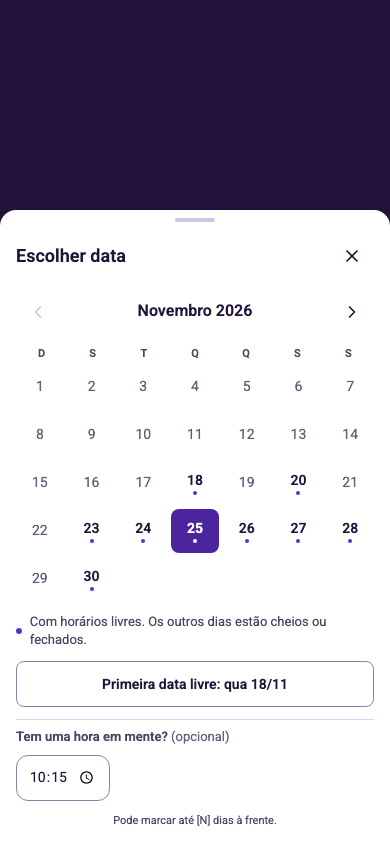
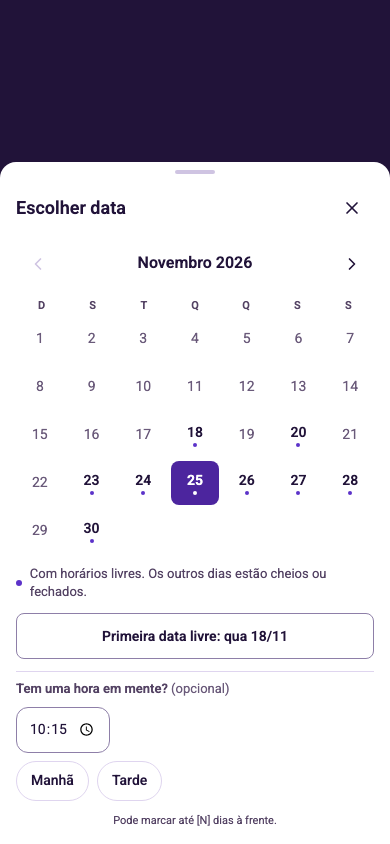
feat(clientweb): Manhã/Tarde no calendário e linha da equipe sem vaga (DEC-227)
Fecha o que ficou de fora do PR: a folha «Outra data» ganha os chips
Manhã/Tarde (opcionais, com a hora em mente) e o estado sem vaga lembra
«Fale com a equipe no WhatsApp». A DEC-227 regista porque a hora do chat
(e a data e o período) não chegam ao link: desde a DEC-220 o chat emite
«Abrir agenda» sempre como home. O chat também não adopta a gravidade:
offerNearestSlots só serve o caminho legado de alternativas.

diff --git a/src/client/clientweb/CalendarSheet.tsx b/src/client/clientweb/CalendarSheet.tsx
@@ -8,8 +8,8 @@ type Props = {
   selected: string | null
   /** Primeira hora de cada dia do horizonte (`daysOnly`). */
   loadDays: (from: string, to: string) => Promise<SlotsResult>
-  /** `requestedTime` = «Tem uma hora em mente?» (HH:MM), opcional. */
-  onPick: (date: string, requestedTime: string | null) => void
+  /** «Tem uma hora em mente?» (HH:MM) e/ou Manhã/Tarde: ambos opcionais (DEC-227). */
+  onPick: (date: string, wish: { requestedTime: string | null; dayPart: 'manha' | 'tarde' | null }) => void
   onClose: () => void
   onSessionLost: () => void
 }
@@ -64,6 +64,7 @@ export function CalendarSheet({ catalog, selected, loadDays, onPick, onClose, on
   const [retry, setRetry] = useState(0)
   const closeRef = useRef<HTMLButtonElement>(null)
   const [time, setTime] = useState('')
+  const [part, setPart] = useState<'manha' | 'tarde' | null>(null)
   const requestedTime = /^([01]\d|2[0-3]):[0-5]\d$/.test(time) ? time : null
 
   useEffect(() => {
@@ -149,7 +150,7 @@ export function CalendarSheet({ catalog, selected, loadDays, onPick, onClose, on
                           className={`cw-cal-day${date === selected ? ' is-on' : ''}`}
                           aria-label={`${l.weekday} ${l.dayMonth}, com horários`}
                           aria-pressed={date === selected}
-                          onClick={() => onPick(date, requestedTime)}
+                          onClick={() => onPick(date, { requestedTime, dayPart: part })}
                         >
                           {num}
                           <span aria-hidden="true" className="cw-cal-dot" />
@@ -178,6 +179,19 @@ export function CalendarSheet({ catalog, selected, loadDays, onPick, onClose, on
             value={time}
             onChange={(e) => setTime(e.target.value)}
           />
+          <div role="group" aria-label="Ou um período" className="cw-pref-chips">
+            {([['manha', 'Manhã'], ['tarde', 'Tarde']] as const).map(([id, label]) => (
+              <button
+                key={id}
+                type="button"
+                aria-pressed={part === id}
+                className={`cw-pref-chip${part === id ? ' is-on' : ''}`}
+                onClick={() => setPart(part === id ? null : id)}
+              >
+                {label}
+              </button>
+            ))}
+          </div>
         </div>
         {days === 'loading' && (
           <p role="status" className="cw-muted">
@@ -205,7 +219,7 @@ export function CalendarSheet({ catalog, selected, loadDays, onPick, onClose, on
           </p>
         )}
         {firstLabel && first && (
-          <button type="button" className="cw-btn cw-btn-secondary" onClick={() => onPick(first, requestedTime)}>
+          <button type="button" className="cw-btn cw-btn-secondary" onClick={() => onPick(first, { requestedTime, dayPart: part })}>
             Primeira data livre: {firstLabel.weekday} {firstLabel.dayMonth}
           </button>
         )}

diff --git a/src/client/clientweb/BookFlow.test.tsx b/src/client/clientweb/BookFlow.test.tsx
@@ -352,6 +352,7 @@ describe('agendar pela página (C-02 a C-06)', () => {
     expect(await screen.findByText('Sem horários nesta altura.')).toBeTruthy()
     expect(document.querySelectorAll('.cw-time')).toHaveLength(0)
     expect(screen.getByText('Nada fica marcado antes de Confirmar.')).toBeTruthy()
+    expect(screen.getByText('Nenhum serve? Fale com a equipe no WhatsApp.')).toBeTruthy()
     await user.click(screen.getByRole('button', { name: 'Próximo livre: sexta 20, 09:30' }))
     expect(await screen.findByRole('heading', { name: 'Confirme o horário' })).toBeTruthy()
   })
@@ -549,13 +550,28 @@ describe('agendar pela página (C-02 a C-06)', () => {
     await user.click(free)
     expect(screen.queryByRole('dialog')).toBeNull()
     expect(await screen.findByRole('button', { name: '10:00' })).toBeTruthy()
-    expect(picks(calls).pop()!.body).toMatchObject({ when: { date: '2026-11-19' }, requestedTime: '10:15' })
+    expect(picks(calls).pop()!.body).toMatchObject({ when: { date: '2026-11-19', dayPart: null }, requestedTime: '10:15' })
     expect(screen.getByRole('button', { name: 'qui 19/11' }).getAttribute('aria-pressed')).toBe('true')
     // Escape fecha.
     await user.click(screen.getByRole('button', { name: 'qui 19/11' }))
     await screen.findByRole('dialog', { name: 'Escolher data' })
     await user.keyboard('{Escape}')
     expect(screen.queryByRole('dialog')).toBeNull()
+  })
+
+  it('calendário: Manhã/Tarde opcionais acompanham a data escolhida (DEC-227)', async () => {
+    const calls = mockApi()
+    const user = await openBooking()
+    await user.click(await screen.findByRole('button', { name: 'Feminino' }))
+    await user.click(await screen.findByRole('button', { name: /Limpeza de pele/ }))
+    await screen.findByRole('button', { name: '14:15' })
+    await user.click(screen.getByRole('button', { name: 'Outra data' }))
+    const dialog = await screen.findByRole('dialog', { name: 'Escolher data' })
+    const tarde = within(dialog).getByRole('button', { name: 'Tarde' })
+    await user.click(tarde)
+    expect(tarde.getAttribute('aria-pressed')).toBe('true')
+    await user.click(await within(dialog).findByRole('button', { name: 'qui 19/11, com horários' }))
+    await waitFor(() => expect(picks(calls).pop()!.body).toMatchObject({ when: { date: '2026-11-19', dayPart: 'tarde' }, requestedTime: null }))
   })
 
   it('calendário: «Primeira data livre», mês seguinte só até ao horizonte e sem violações (axe)', async () => {

diff --git a/docs/design/cliente/C-12-Calendario.html b/docs/design/cliente/C-12-Calendario.html
@@ -58,6 +58,10 @@ a:focus-visible,button:focus-visible,input:focus-visible{outline:2px solid #5C32
 <div style="display: flex; flex-direction: column; gap: 8px; padding-top: 8px; border-top: 1px solid #DFD5EF">
 <label for="hora-mente" style="font-size: 13px; font-weight: 600; color: #544364">Tem uma hora em mente? <span style="font-weight: 400; color: #6A5A7A">(opcional)</span></label>
 <input id="hora-mente" type="time" step="900" value="10:15" style="align-self: flex-start; min-height: 44px; padding: 0 12px; border: 1px solid #8E7FA8; border-radius: 12px; background: #FFFFFF; color: #211339">
+<div role="group" aria-label="Ou um período" style="display: flex; gap: 8px">
+<button type="button" aria-pressed="false" style="min-height: 40px; padding: 0 14px; border-radius: 999px; border: 1px solid #DFD5EF; background: #FFFFFF; color: #211339; font-weight: 500">Manhã</button>
+<button type="button" aria-pressed="false" style="min-height: 40px; padding: 0 14px; border-radius: 999px; border: 1px solid #DFD5EF; background: #FFFFFF; color: #211339; font-weight: 500">Tarde</button>
+</div>
 </div>
 <p style="margin: 0; font-size: 11px; color: #544364; text-align: center">Pode marcar até [N] dias à frente.</p>
 </section>

diff --git a/src/client/clientweb/TimeStep.tsx b/src/client/clientweb/TimeStep.tsx
@@ -254,6 +254,7 @@ export function TimeStep({
               Próximo livre: {nextFreeWhen(done.nextAvailable.date, catalog.today)}, {done.nextAvailable.time}
             </button>
           )}
+          <p className="cw-muted">Nenhum serve? Fale com a equipe no WhatsApp.</p>
         </div>
       )}
       {done && <p className="cw-muted cw-margin">Nada fica marcado antes de Confirmar.</p>}
@@ -264,10 +265,10 @@ export function TimeStep({
           loadDays={stableLoadDays}
           onSessionLost={onSessionLost}
           onClose={() => setCalendarOpen(false)}
-          onPick={(date, time) => {
+          onPick={(date, wish) => {
             setCalendarOpen(false)
-            setRequestedTime(time)
-            setWhen({ date })
+            setRequestedTime(wish.requestedTime)
+            setWhen({ date, dayPart: wish.dayPart })
           }}
         />
       )}

diff --git a/docs/product/decisions.md b/docs/product/decisions.md
@@ -286,7 +286,7 @@ Enquanto essas decisões não estiverem fechadas, é possível demonstrar a jorn
 | DEC-224 | **Confirmado** (Paulo, 21/11/2026, America/Sao_Paulo — Project «Clínica mobile top margin»; screenshot WhatsApp «Deixei seu pedido para a equipe; a equipe responde a partir de segunda…» fora de horas) | Fora do horário da clínica **não** chamar a equipe | Toque em «Falar com a equipe» (ou o caminho de pedido de equipe) fora do expediente **registava** o pedido (`alter_awaiting_team` / «Precisa de alguém») com copy «Deixei seu pedido…», embora a IA continuasse (revisão intermédia da DEC-155). A equipe era avisada sem poder atender. | **Confirmado.** (1) Fora do expediente efectivo da clínica (DEC-008 / `isClinicOpenForHandoff`): pedido explícito ou toque em «Falar com a equipe» **não** abre handoff, **não** abre alerta/`alter_awaiting_team`, **não** pausa a IA. (2) Resposta: explica a **próxima abertura** + «Posso continuar te ajudando por aqui.» (IA activa até lá). (3) Em expediente, DEC-083 inalterado (toque → pausa + alerta). (4) Outros handoffs que ainda pausam (off_purpose, human_only, etc.) fora do expediente mantêm DEC-113. (5) Mal-entendido / fallback DEC-107 que registam pedido **não** são este caminho. | Paulo 21/11/2026. **Revê** DEC-155(2) no que dizia «registo o pedido» / fila fora do horário; alinha de novo à DEC-155 original (horário + IA activa, sem fila). Relaciona DEC-083, DEC-113, DEC-155. Respeita DEC-222 (um caminho `replyAfterHoursHumanRequest` sem `registerHumanHelpRequest`). L1 G-10 / G-10e; unidade `handoff-timeout`. |
 | DEC-225 | **Confirmado** (Paulo, 21/11/2026, America/Sao_Paulo — Project «Clínica mobile top margin»; relaciona [#1012](https://github.com/intentzero/tredane/pull/1012) retomar IA) | Após marcar/remarcar/cancelar na página web: limpar handoff e retomar IA | Com conversa em «falar com a equipe» / Assumir / alerta aberto, a cliente resolvia o pedido na página (ADR-0018) e o fio ficava pausado ou «Precisa de alguém», sem a IA voltar a conduzir. | **Confirmado.** Depois de **agendar**, **remarcar** ou **cancelar** com sucesso na página web da cliente: se a conversa tiver pedido de equipe / `alter_awaiting_team` aberto, pausa DEC-083 ou Assumir (`staff_active` / responsável humano), o backend **limpa** o alerta/pausa e **retoma** a condução por IA (`resumeAiReply`, responsável `system:ai-autodraft`). Pix só sinalizado (ainda não marcado) **não** dispara. Um helper partilhado nos três sucesso-paths (DEC-222). | Paulo 21/11/2026. Completa DEC-202 / ADR-0018 no pós-acção web; alinha o espírito de retoma da [#1012](https://github.com/intentzero/tredane/pull/1012) (idle) e DEC-155 timeout. Não altera Assumir→Terminar no chat. L1 CW-18. |
 | DEC-226 | **Confirmado** (Paulo, 21/11/2026, America/Sao_Paulo — Project «Clínica mobile top margin», TRE-126: «Mídia não deve chamar atendente»; screenshot staging com `[Imagem]` após pedido de quarta) | Mídia (áudio/imagem/documento) **não** abre handoff | DEC-119/132 faziam a 2.ª mídia e o comprovativo Pix por imagem pausarem a IA e abrirem «Precisa de alguém». A owner quer que mídia seja ignorada no conteúdo (DEC-067) e a cliente receba só a frase de não suportado, **sem** chamar a equipe. | **Confirmado.** (1) Áudio, imagem ou documento **sem** legenda útil → frase DEC-130 («Ainda não consigo ouvir áudios nem ver imagens…») + botão «Falar com a equipe»; IA **activa**; **nunca** `notifyHumanHandoff` por mídia. (2) Revoga a excepção de comprovativo por imagem e a escala da 2.ª mídia (DEC-119/132). (3) Com IA já pausada por outro motivo, a mesma frase ainda sai **sem** alterar a pausa. (4) Imagem/documento **com** legenda continua pelo texto da legenda. DEC-067 mantém-se. | Paulo 21/11/2026 (TRE-126). Política única em `decideMediaOnlyTurn` (DEC-222). L1 C-10/C-14/C-15/C-16. |
-| DEC-227 | **Confirmado** (Paulo, 24/11/2026, America/Sao_Paulo — «Aprovado, implementa» sobre o canvas de 9 ecrãs e os mocks [C-04](../design/cliente/C-04-Horario.html) e [C-13](../design/cliente/C-13-Agora.html); as escolhas de direção — grade de 15 min, 3 horários + «Outros horários», gravidade das marcações confirmadas, hora pedida primeiro, antecedência explicada só quando corta, bypass da antecedência no painel — vieram na mesma sessão) | Página da cliente: «Quando prefere?» e poucos horários escolhidos pelo servidor | O passo Quando? (C-04, ADR-0018) mostra uma semana e **todas** as horas livres do dia por Manhã/Tarde/Noite. Numa clínica pouco ocupada a cliente vê uma grade cheia e lê «não tem clientes», o que tira valor à clínica. A cliente pensa em conveniência («já», «hoje à tarde», «amanhã», «dia X»), não em grade. As horas oferecidas não ajudam a clínica a juntar marcações: sem marcações as profissionais nem vão à clínica. A antecedência mínima (DEC-182) corta horas sem explicação e também bloqueia a equipe no painel. | **Confirmado.** (1) **Grade:** fica a de 15 min (DEC-008); o motor nunca usou blocos com a duração do serviço. «Agora» = primeiro quarto de hora livre ≥ agora + antecedência. (2) **Conveniência primeiro:** o passo abre com «Quando prefere?»: **Agora** · **Hoje de manhã** · **Hoje à tarde** · **Amanhã** · **Outra data** (calendário C-12, com «Tem uma hora em mente?» opcional). Chips de hoje somem quando o período já passou ou não tem vaga; «Agora» some sem vaga nas próximas 2 h. Sai a faixa da semana e a grade por período. (3) **Poucos horários:** a página mostra **3** horas escolhidas pelo servidor e «Outros horários» (mais 3 de cada vez); nunca a grade inteira. Sem vaga na conveniência: «Próximo livre: …» com a primeira vaga depois dela. (4) **Gravidade:** marcações **confirmadas** do dia atraem as seguintes — colada a uma marcação da mesma profissional pontua mais, a pontuação cai até 3 h de distância; outra profissional no mesmo dia vale metade. Sem marcação no dia, vence a hora mais perto da conveniência, e essa marcação passa a atrair as próximas. Horas escolhidas ficam a ≥ 30 min umas das outras. Holds e pendentes de Pix não atraem. Com «Sem preferência» a gravidade vem antes do rodízio (revê DEC-218 só neste ponto); com profissional escolhida, só ela conta. (5) **Hora pedida:** se a cliente disse uma hora (no chat ou no calendário) e ela está livre, sai em primeiro, fora da gravidade; se não, as vizinhas. (6) **Antecedência:** continua opcional (DEC-182, padrão Desligado) e vale para a página e o chat. A página só a explica quando corta: «O mais cedo possível é às HH:MM.» **A equipe no painel (Agendar manual) ignora a antecedência**; o passado continua recusado. (7) **Padrão da antecedência:** a migração 0063 criou a coluna com 30 min, mas a clínica nova nasce com 0 (Desligado) porque o `INSERT` de `ensureClinicSettings` grava o valor explicitamente; **nenhuma migração** muda o valor de clínicas existentes, que podem estar a cortar 30 min sem a responsável saber (DEC-182 já o registava). | Paulo, 24/11/2026 (escolhas 1, 3–6 e bypass). Revê o passo horário da [ADR-0018](../adr/0018-pagina-web-cliente.md) («semana com setas, Manhã/Tarde/Noite»), completa DEC-182 (bypass da equipe) e DEC-218 (gravidade antes do rodízio). Mantém DEC-008, DEC-201 (horizonte), DEC-197 (só Confirmar marca). **Implementado em 24/11/2026 (staging, não em produção):** `pick-slots.ts`, `attractors.ts` e `applyBookingLead` no motor; `when` em `POST /api/c/availability` (agendar e remarcar); `TimeStep` novo; a gravidade vem antes do rodízio também ao marcar com «Sem preferência». Pix pago passa a revalidar sem antecedência (honra uma hora já oferecida). **Em aberto / fora deste recorte:** (a) raio de 3 h e meio peso para outra profissional são valores iniciais, a validar com a clínica piloto; (b) a hora dita no chat («às 10h») ainda **não** chega ao link — falta `preferred_time` em `links.ts`/`link-preset.ts`; a hora só se pede no calendário; (c) o calendário não tem os chips Manhã/Tarde do mock; (d) o estado «sem vaga» não repete «Falar com a equipe» do mock; (e) o chat (`offerNearestSlots`) adopta a mesma gravidade num passo seguinte; (f) o raio de «Agora» (2 h) e `minGapMinutes` (30) são constantes em `pick.ts`/`pick-slots.ts`. Código: `src/clinic/scheduling/pick-slots.ts`, `src/clientweb/pick.ts`. |
+| DEC-227 | **Confirmado** (Paulo, 24/11/2026, America/Sao_Paulo — «Aprovado, implementa» sobre o canvas de 9 ecrãs e os mocks [C-04](../design/cliente/C-04-Horario.html) e [C-13](../design/cliente/C-13-Agora.html); as escolhas de direção — grade de 15 min, 3 horários + «Outros horários», gravidade das marcações confirmadas, hora pedida primeiro, antecedência explicada só quando corta, bypass da antecedência no painel — vieram na mesma sessão) | Página da cliente: «Quando prefere?» e poucos horários escolhidos pelo servidor | O passo Quando? (C-04, ADR-0018) mostra uma semana e **todas** as horas livres do dia por Manhã/Tarde/Noite. Numa clínica pouco ocupada a cliente vê uma grade cheia e lê «não tem clientes», o que tira valor à clínica. A cliente pensa em conveniência («já», «hoje à tarde», «amanhã», «dia X»), não em grade. As horas oferecidas não ajudam a clínica a juntar marcações: sem marcações as profissionais nem vão à clínica. A antecedência mínima (DEC-182) corta horas sem explicação e também bloqueia a equipe no painel. | **Confirmado.** (1) **Grade:** fica a de 15 min (DEC-008); o motor nunca usou blocos com a duração do serviço. «Agora» = primeiro quarto de hora livre ≥ agora + antecedência. (2) **Conveniência primeiro:** o passo abre com «Quando prefere?»: **Agora** · **Hoje de manhã** · **Hoje à tarde** · **Amanhã** · **Outra data** (calendário C-12, com «Tem uma hora em mente?» opcional). Chips de hoje somem quando o período já passou ou não tem vaga; «Agora» some sem vaga nas próximas 2 h. Sai a faixa da semana e a grade por período. (3) **Poucos horários:** a página mostra **3** horas escolhidas pelo servidor e «Outros horários» (mais 3 de cada vez); nunca a grade inteira. Sem vaga na conveniência: «Próximo livre: …» com a primeira vaga depois dela. (4) **Gravidade:** marcações **confirmadas** do dia atraem as seguintes — colada a uma marcação da mesma profissional pontua mais, a pontuação cai até 3 h de distância; outra profissional no mesmo dia vale metade. Sem marcação no dia, vence a hora mais perto da conveniência, e essa marcação passa a atrair as próximas. Horas escolhidas ficam a ≥ 30 min umas das outras. Holds e pendentes de Pix não atraem. Com «Sem preferência» a gravidade vem antes do rodízio (revê DEC-218 só neste ponto); com profissional escolhida, só ela conta. (5) **Hora pedida:** se a cliente disse uma hora (no chat ou no calendário) e ela está livre, sai em primeiro, fora da gravidade; se não, as vizinhas. (6) **Antecedência:** continua opcional (DEC-182, padrão Desligado) e vale para a página e o chat. A página só a explica quando corta: «O mais cedo possível é às HH:MM.» **A equipe no painel (Agendar manual) ignora a antecedência**; o passado continua recusado. (7) **Padrão da antecedência:** a migração 0063 criou a coluna com 30 min, mas a clínica nova nasce com 0 (Desligado) porque o `INSERT` de `ensureClinicSettings` grava o valor explicitamente; **nenhuma migração** muda o valor de clínicas existentes, que podem estar a cortar 30 min sem a responsável saber (DEC-182 já o registava). | Paulo, 24/11/2026 (escolhas 1, 3–6 e bypass). Revê o passo horário da [ADR-0018](../adr/0018-pagina-web-cliente.md) («semana com setas, Manhã/Tarde/Noite»), completa DEC-182 (bypass da equipe) e DEC-218 (gravidade antes do rodízio). Mantém DEC-008, DEC-201 (horizonte), DEC-197 (só Confirmar marca). **Implementado em 24/11/2026 (staging, não em produção):** `pick-slots.ts`, `attractors.ts` e `applyBookingLead` no motor; `when` em `POST /api/c/availability` (agendar e remarcar); `TimeStep` novo; a gravidade vem antes do rodízio também ao marcar com «Sem preferência». Pix pago passa a revalidar sem antecedência (honra uma hora já oferecida). **Fechado depois (24/11/2026, mesmo PR):** chips Manhã/Tarde na folha do calendário e a linha «Nenhum serve? Fale com a equipe no WhatsApp.» no estado sem vaga (texto, como o resto da página; a página não tem link para o WhatsApp). **Em aberto / fora deste recorte:** (a) raio de 3 h e meio peso para outra profissional são valores iniciais, a validar com a clínica piloto; (b) **a hora dita no chat não chega ao link, e a data e o período também não**: desde a DEC-220 o chat emite «Abrir agenda» sempre como `home`, com `serviceId`, data e período a `null` (`autodraft.ts`); a cadeia `preferred_date`/`day_part` (D1 0034, `link-preset.ts`, `BookFlow`) só é alimentada hoje por quem chamar `issueClientWebLink` com esses campos. Pôr `preferred_time` nessa cadeia sem religar os presets seria código morto, e religá-los **revê a DEC-220** — decisão do Paulo; (c) o chat (`offerNearestSlots`) **não** adopta a gravidade: desde a DEC-202 o chat não oferece horas, e a função só serve `offerAlternativesForProposal` (caminho legado do botão do WhatsApp); (d) o raio de «Agora» (2 h) e `minGapMinutes` (30) são constantes em `pick.ts`/`pick-slots.ts`. Código: `src/clinic/scheduling/pick-slots.ts`, `src/clientweb/pick.ts`. |
 | DEC-C1 | **Proposto → em progresso** (direcção aprovada Paulo 08/11/2026; #628 + P1 stack/realize no gate) | Pesquisa de preço/duração como obrigação cross-cutting | «Quanto custa?» / «qual o valor?» a meio do funil (ask-tipo, oferta de slots) era tratado como miss e reabria tipos ou limpava variante. Preferência Paulo 08/11: preço é intent de 1.ª classe. | `ask_info` no gate cross-cutting; mid-funnel realizado via `ask-info-realize` + stack park/resume (não limpa variante / não reabre tipo por engano); autodraft cede ao `runBookingTurn`. Formalizar como DEC numerada ou issue sob [#579](https://github.com/intentzero/tredane/issues/579). | Engenharia no gate; formalizar DEC. |
 | DEC-C2 | **Proposto → a formalizar** (Paulo aprovou direcção 08/11/2026; #629 + teste de paridade) | Hint de saída ⊆ Class A | DEC-152 ensinou «diga terminar» sem o regex A reconhecer «terminar» mid-funnel (#629). | Toda copy que ensina comando de saída («diga X») obriga reconhecimento de X na Class A (DEC-147) **no mesmo PR**, com teste de paridade hint↔regex (`botTaughtExitCommands`). Não aplica a «diga serviços masculinos» (DEC-142, não é saída). | Evita regressões #629-class. Formalizar sob DEC-147/152 ou issue #579. |
 | DEC-C3 | **Proposto → em progresso** (Paulo aprovou direcção 08/11/2026; engenharia P1 + L1 A-37) | Option-miss só sob obrigação de escolha | Qualquer texto não casado caía em «Não encontrei … nas opções» (zone leftover), mesmo quando a cliente não tentava escolher zona. | Option-miss só quando o turno *tentou* escolher opção do `pending` / catálogo de variantes; senão acto `esclarecer` / `servico_inexistente` (ou confusão DEC-151). Com `pending.slot=horario`, leftover de zona → `esclarecer` sem limpar variante (L1 A-37). | Casa com P1 `DialogueObligation`; formalizar sob #579. |

diff --git a/docs/design/cliente/README.md b/docs/design/cliente/README.md
@@ -18,6 +18,6 @@ Mobile first (390×844), com o **layout compacto Confirmado** (Paulo, 17/11/2026
 | C-10 | `C-10-Busca.html` | Procurar: zonas e serviços encontrados, termo destacado | JRN-21 · REQ-117 |
 | C-11 | `C-11-BuscaVazia.html` | Procurar: nada encontrado, com «Perguntar no WhatsApp» | JRN-21 · REQ-117 |
 | C-13 | `C-13-Agora.html` | Agendar 3 de 4 com «Agora»: antecedência mínima explicada só quando corta («O mais cedo possível é às 09:45.») (DEC-227, **Confirmado**) | JRN-21 · REQ-112 |
-| C-12 | `C-12-Calendario.html` | Escolher data: calendário do mês com dias livres marcados e «Primeira data livre»; **«Tem uma hora em mente?»** opcional (DEC-227) | JRN-21, JRN-22 · REQ-112, REQ-113 |
+| C-12 | `C-12-Calendario.html` | Escolher data: calendário do mês com dias livres marcados e «Primeira data livre»; **«Tem uma hora em mente?»** e Manhã/Tarde, opcionais (DEC-227) | JRN-21, JRN-22 · REQ-112, REQ-113 |
 
 Estados que a UI real ainda precisa (não desenhados): carregando, sem horários na conveniência («Próximo livre: …», DEC-227),  vaga perdida ao confirmar, erro de rede, sessão expirada, página pausada pela owner, «Pedir à equipe» enquanto a janela de crédito não é aplicada (DEC-198), lista vazia em C-01, pesquisa a carregar.

diff --git a/docs/design/screens.md b/docs/design/screens.md
@@ -143,7 +143,7 @@ Página pública pessoal aberta pelo link do chat (DEC-196 a DEC-199; [ADR-0018]
 | C-02 a C-05 | Agendar (4 passos) | JRN-21 · REQ-112, REQ-117 | Serviço (com pesquisa e «Para quem é?»), zonas (com pesquisa), horário, revisão e **Confirmar** |
 | C-10, C-11 | Procurar | JRN-21 · REQ-117 | Resultados com termo destacado; nada encontrado |
 | C-13 | Horário · Agora (**Confirmado**, DEC-227) | JRN-21 · REQ-112 | «Quando prefere?» com Agora; aviso «O mais cedo possível é às HH:MM» quando a antecedência corta; 3 horas + «Outros horários» |
-| C-12 | Escolher data | JRN-21, JRN-22 · REQ-112, REQ-113 | Calendário do mês em folha inferior; dias com horários marcados; primeira data livre; «Tem uma hora em mente?» opcional (DEC-227) |
+| C-12 | Escolher data | JRN-21, JRN-22 · REQ-112, REQ-113 | Calendário do mês em folha inferior; dias com horários marcados; primeira data livre; «Tem uma hora em mente?» e Manhã/Tarde opcionais (DEC-227) |
 | C-06 | Feito | JRN-21 · REQ-116 | Resultado e aviso do recibo no WhatsApp |
 | C-07 | Remarcar | JRN-22 · REQ-113 | Nova hora para o mesmo serviço e zonas |
 | C-08 | Cancelar | JRN-22 · REQ-114 | Política do sinal e aceite explícito |
